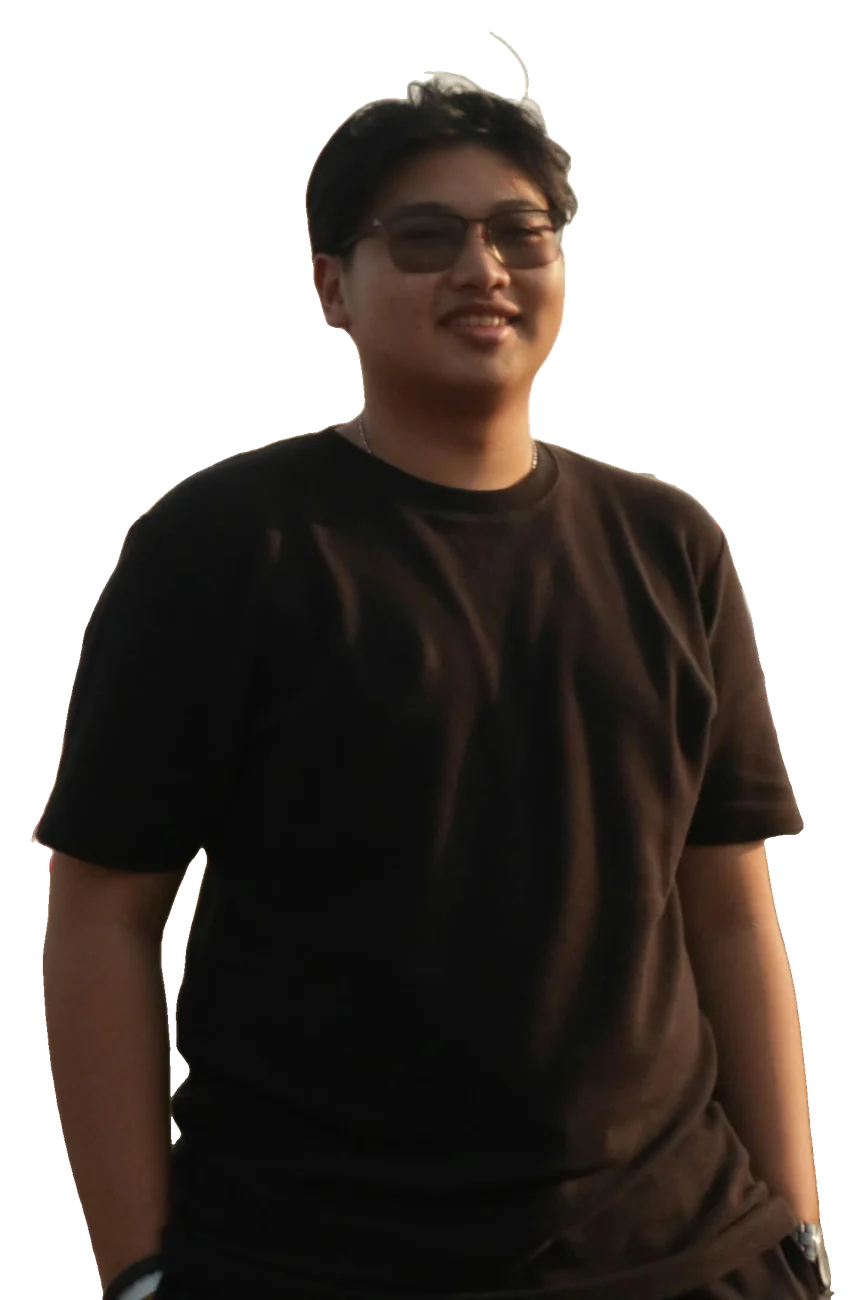
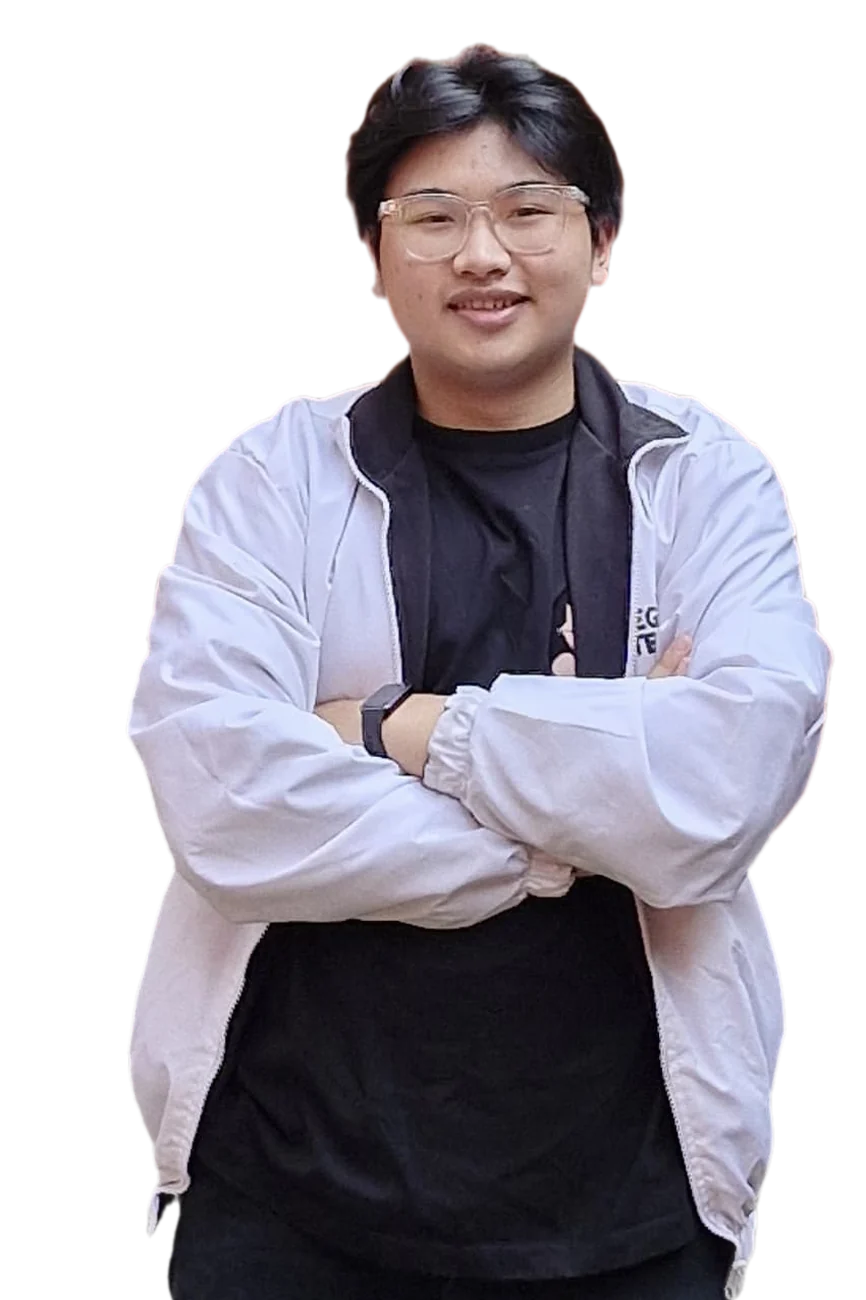
Use the torii photo for the portrait; plain hyphens instead of em dashes
The portrait cutout now comes from the Fushimi Inari photo (relaxed,
arms crossed), cropped to the same 866x1300 frame so the hero, About
frame and shatter transition need no changes. Every visible em dash in
the page and the chat widget is now a plain hyphen, and the assistant
is told to avoid em dashes too.

diff --git a/index.html b/index.html
@@ -4,8 +4,8 @@
 <head>
   <meta charset="UTF-8" />
   <meta name="viewport" content="width=device-width, initial-scale=1.0" />
-  <meta name="description" content="Elroy Matthew Wiyanto — Full-Stack & Web Developer Portfolio" />
-  <title>Elroy Matthew Wiyanto — Developer</title>
+  <meta name="description" content="Elroy Matthew Wiyanto - Full-Stack & Web Developer Portfolio" />
+  <title>Elroy Matthew Wiyanto - Developer</title>
   <link rel="preconnect" href="https://fonts.googleapis.com" />
   <link rel="preconnect" href="https://fonts.gstatic.com" crossorigin />
   <link
@@ -21,7 +21,7 @@
   <link rel="canonical" href="https://elroy-matthew.vercel.app/" />
   <meta name="theme-color" content="#e8922a" />
   <meta property="og:type" content="website" />
-  <meta property="og:title" content="Elroy Matthew Wiyanto — Full-Stack &amp; Web Developer" />
+  <meta property="og:title" content="Elroy Matthew Wiyanto - Full-Stack &amp; Web Developer" />
   <meta property="og:description"
     content="Full-stack developer building performant web apps with React, Next.js, Golang and PostgreSQL." />
   <meta property="og:url" content="https://elroy-matthew.vercel.app/" />
@@ -33,7 +33,7 @@
   <meta name="twitter:card" content="summary_large_image" />
   <meta name="twitter:image" content="https://elroy-matthew.vercel.app/assets/img/og-image.png" />
   <link rel="preload" as="image" href="assets/img/portrait-cutout.webp" fetchpriority="high" />
-  <link rel="stylesheet" href="assets/css/styles.css?v=66" />
+  <link rel="stylesheet" href="assets/css/styles.css?v=67" />
 </head>
 
 <body class="pre-lock">
@@ -131,12 +131,12 @@
              .portrait-fly (main.js) yang pecah lalu menyatu di bingkai About. -->
         <figure class="hero-portrait">
           <img class="hero-cutout" src="assets/img/portrait-cutout.webp" width="866" height="1300"
-            alt="Elroy Matthew Wiyanto, smiling, in a black t-shirt" fetchpriority="high" decoding="async" />
+            alt="Elroy Matthew Wiyanto, smiling with arms crossed, in a white jacket" fetchpriority="high" decoding="async" />
         </figure>
 
         <div class="hero-left">
           <p class="hero-role">Full-Stack Developer &amp; <span class="hl">Web Developer</span></p>
-          <p class="hero-desc">Building performant, scalable full-stack web applications &mdash; from database
+          <p class="hero-desc">Building performant, scalable full-stack web applications - from database
             architecture to polished user interfaces.</p>
           <div class="hero-ctas">
             <a href="#projects" class="btn btn-primary">View Projects ↓</a>
@@ -175,11 +175,11 @@
             <strong>full-stack web applications</strong> and <strong>scalable backend services</strong>.
           </p>
           <p>
-            Currently working at <strong>Egafood Indonesia</strong> as a Full-Stack Developer Intern —
+            Currently working at <strong>Egafood Indonesia</strong> as a Full-Stack Developer Intern -
             developing a company-wide ERP system from the ground up for digital transformation.
           </p>
           <p>
-            I'm comfortable owning a feature <strong>end-to-end</strong> — from schema design to deployment —
+            I'm comfortable owning a feature <strong>end-to-end</strong> - from schema design to deployment -
             and have hands-on experience in frontend, backend, API design, and cloud architecture.
           </p>
         </div>
@@ -395,7 +395,7 @@
 
         <div class="tl-item reveal">
           <div class="tl-meta">
-            <span class="tl-date">Aug 2026 — Present</span>
+            <span class="tl-date">Aug 2026 - Present</span>
             <span class="tl-type">Internship</span>
           </div>
           <div class="tl-role">Full-Stack Developer Intern</div>
@@ -411,7 +411,7 @@
 
         <div class="tl-item reveal">
           <div class="tl-meta">
-            <span class="tl-date">Apr 2026 — Jul 2026</span>
+            <span class="tl-date">Apr 2026 - Jul 2026</span>
             <span class="tl-type">Apprenticeship</span>
           </div>
           <div class="tl-role">Web Development Intern</div>
@@ -425,7 +425,7 @@
 
         <div class="tl-item reveal">
           <div class="tl-meta">
-            <span class="tl-date">Feb 2026 — Apr 2026</span>
+            <span class="tl-date">Feb 2026 - Apr 2026</span>
             <span class="tl-type">Apprenticeship</span>
           </div>
           <div class="tl-role">IT Help Desk</div>
@@ -498,7 +498,7 @@
           </div>
           <div class="project-body">
             <div class="project-icon">✈</div>
-            <div class="project-name">TripVerse &mdash; Online Travel Agent</div>
+            <div class="project-name">TripVerse - Online Travel Agent</div>
             <div class="project-desc">Full-featured online travel agent platform with multi-role admin dashboard,
               booking management, user authentication with forgot-password flow, activity logging, and multi-language
               support (EN/ID).</div>
@@ -567,7 +567,7 @@
           </div>
           <div class="project-body">
             <div class="project-icon">🖥</div>
-            <div class="project-name">Customer Portal &mdash; Comtronics Systems</div>
+            <div class="project-name">Customer Portal - Comtronics Systems</div>
             <div class="project-desc">Customer-facing portal developed during internship at PT Comtronics Systems.
               Features ticket management, support request tracking, and IT helpdesk integration for streamlined customer
               service workflows.</div>
@@ -600,10 +600,10 @@
           </div>
           <div class="project-body">
             <div class="project-icon">🛰</div>
-            <div class="project-name">NEXA &mdash; Smart City Command Center</div>
+            <div class="project-name">NEXA - Smart City Command Center</div>
             <div class="project-desc">Smart city monitoring dashboard for real-time urban operations. Handles emergency
               reports, live CCTV findings, IoT device health (smart street lighting, sensors, controllers), and
-              environmental alerts &mdash; all plotted on an interactive map with trend analytics.</div>
+              environmental alerts - all plotted on an interactive map with trend analytics.</div>
             <div class="project-stack"><span class="stack-tag">React 19</span><span
                 class="stack-tag">TypeScript</span><span class="stack-tag">Vite</span><span class="stack-tag">Tailwind
                 CSS</span><span class="stack-tag">Google Maps</span><span class="stack-tag">Chart.js</span></div>
@@ -634,9 +634,9 @@
           </div>
           <div class="project-body">
             <div class="project-icon">☕</div>
-            <div class="project-name">Royale POS &mdash; Restaurant Point of Sale</div>
+            <div class="project-name">Royale POS - Restaurant Point of Sale</div>
             <div class="project-desc">Point of sale system for a coffee shop &amp; kitchen, split across three roles
-              &mdash; cashier, warehouse, and owner. Fast checkout with keyboard shortcuts, thermal receipts and A4
+              - cashier, warehouse, and owner. Fast checkout with keyboard shortcuts, thermal receipts and A4
               invoices, stock that moves with every sale and void, monthly targets, and owner analytics.</div>
             <div class="project-stack"><span class="stack-tag">React</span><span class="stack-tag">Vite</span><span
                 class="stack-tag">Tailwind CSS</span><span class="stack-tag">Recharts</span><span
@@ -668,7 +668,7 @@
           </div>
           <div class="project-body">
             <div class="project-icon">🌙</div>
-            <div class="project-name">UltraSleep &mdash; Product Website</div>
+            <div class="project-name">UltraSleep - Product Website</div>
             <div class="project-desc">Official website for a BPOM- and Halal-registered sleep supplement, designed,
               built, and deployed end to end. A custom WordPress theme built with Tailwind CSS, bilingual (ID/EN),
               covering product benefits, research, FAQ, reseller sign-up, and an in-page cart.</div>
@@ -721,8 +721,8 @@
               onerror="this.parentNode.textContent='🎓'" /></div>
           <div>
             <div class="edu-title">B.Sc. Information Systems</div>
-            <div class="edu-sub">Maranatha Christian University — Bandung, Indonesia</div>
-            <div class="edu-date">Aug 2023 — Jun 2027 (Expected)</div>
+            <div class="edu-sub">Maranatha Christian University - Bandung, Indonesia</div>
+            <div class="edu-date">Aug 2023 - Jun 2027 (Expected)</div>
             <div class="edu-detail">
               <ul class="edu-wins">
                 <li class="win win-hi"><b>4.00</b>&nbsp;/ 4.00 GPA</li>
@@ -740,9 +740,9 @@
           <div class="edu-icon"><img class="edu-logo" src="assets/img/terang-bangsa.webp" alt="Logo SMAK Terang Bangsa"
               loading="lazy" decoding="async" onerror="this.parentNode.textContent='🏫'" /></div>
           <div>
-            <div class="edu-title">High School Diploma — Natural Science</div>
-            <div class="edu-sub">SMAK Terang Bangsa — Cirebon, Indonesia</div>
-            <div class="edu-date">Jul 2020 — Apr 2023</div>
+            <div class="edu-title">High School Diploma - Natural Science</div>
+            <div class="edu-sub">SMAK Terang Bangsa - Cirebon, Indonesia</div>
+            <div class="edu-date">Jul 2020 - Apr 2023</div>
           </div>
         </div>
       </div>
@@ -913,7 +913,7 @@
               <div>
                 <div class="org-role">Vice President</div>
               </div>
-              <div class="org-period">Feb 2025 — Feb 2026</div>
+              <div class="org-period">Feb 2025 - Feb 2026</div>
             </div>
             <div class="org-name">HMSI Maranatha 25/26</div>
             <div class="org-desc">Led &amp; managed team activities to achieve project targets. Maintained
@@ -932,7 +932,7 @@
               <div>
                 <div class="org-role">Academic Division</div>
               </div>
-              <div class="org-period">Feb 2024 — Feb 2025</div>
+              <div class="org-period">Feb 2024 - Feb 2025</div>
             </div>
             <div class="org-name">HMSI Maranatha 24/25</div>
             <div class="org-desc">Organized academic events including workshops, seminars, and study groups to support
@@ -1100,7 +1100,7 @@
     </a>
   </div>
 
-  <script src="assets/js/main.js?v=66"></script>
+  <script src="assets/js/main.js?v=67"></script>
 </body>
 
 </html>

diff --git a/assets/js/main.js b/assets/js/main.js
@@ -545,7 +545,7 @@ document.querySelectorAll('.project-card').forEach(card => {
     if (!greeted) {
       greeted = true;
       bubble('msg-bot',
-        "Hai! Saya asisten AI-nya Elroy. Tanya apa saja soal pengalaman, project, atau keahliannya — boleh pakai bahasa Indonesia atau Inggris.");
+        "Hai! Saya asisten AI-nya Elroy. Tanya apa saja soal pengalaman, project, atau keahliannya - boleh pakai bahasa Indonesia atau Inggris.");
     }
     setTimeout(() => input.focus(), 280);
   }
@@ -592,23 +592,23 @@ document.querySelectorAll('.project-card').forEach(card => {
   const FAST = [
     {
       re: /^(hai|halo|hallo|hi|hello|hey|pagi|siang|sore|malam|selamat (pagi|siang|sore|malam))\b/i,
-      id: 'Halo! Silakan tanya apa saja tentang Elroy — pengalaman kerja, project, keahlian, atau ketersediaannya.',
-      en: 'Hi! Ask me anything about Elroy — his work experience, projects, skills, or availability.',
+      id: 'Halo! Silakan tanya apa saja tentang Elroy - pengalaman kerja, project, keahlian, atau ketersediaannya.',
+      en: 'Hi! Ask me anything about Elroy - his work experience, projects, skills, or availability.',
     },
     {
       re: /(siapa kamu|kamu siapa|kamu ini apa|kamu ai|kamu bot|who are you|what are you|are you (an? )?(ai|bot|gemini|chatgpt))/i,
-      id: 'Saya asisten AI di portfolio Elroy Matthew Wiyanto, ditenagai Google Gemini. Saya menjawab berdasarkan CV dan profil Elroy — jadi kalau ada yang tidak saya ketahui, saya akan bilang tidak tahu, bukan mengarang.',
-      en: "I'm the AI assistant on Elroy Matthew Wiyanto's portfolio, powered by Google Gemini. I answer from Elroy's CV and profile — so if I don't know something, I'll say so rather than make it up.",
+      id: 'Saya asisten AI di portfolio Elroy Matthew Wiyanto, ditenagai Google Gemini. Saya menjawab berdasarkan CV dan profil Elroy - jadi kalau ada yang tidak saya ketahui, saya akan bilang tidak tahu, bukan mengarang.',
+      en: "I'm the AI assistant on Elroy Matthew Wiyanto's portfolio, powered by Google Gemini. I answer from Elroy's CV and profile - so if I don't know something, I'll say so rather than make it up.",
     },
     {
       re: /(kontak|hubungi|contact|reach (him|out)|email\b|e-mail|whatsapp|wa\b|nomor|phone)/i,
-      id: 'Elroy bisa dihubungi lewat:\n• Email — elroy.matthew10@gmail.com\n• WhatsApp — +62 878-0677-6235 (ada tombol hijaunya di pojok kanan bawah)\n• LinkedIn — elroy-matthew-wiyanto\n• GitHub — @Royyy26',
-      en: 'You can reach Elroy at:\n• Email — elroy.matthew10@gmail.com\n• WhatsApp — +62 878-0677-6235 (green button, bottom right)\n• LinkedIn — elroy-matthew-wiyanto\n• GitHub — @Royyy26',
+      id: 'Elroy bisa dihubungi lewat:\n• Email - elroy.matthew10@gmail.com\n• WhatsApp - +62 878-0677-6235 (ada tombol hijaunya di pojok kanan bawah)\n• LinkedIn - elroy-matthew-wiyanto\n• GitHub - @Royyy26',
+      en: 'You can reach Elroy at:\n• Email - elroy.matthew10@gmail.com\n• WhatsApp - +62 878-0677-6235 (green button, bottom right)\n• LinkedIn - elroy-matthew-wiyanto\n• GitHub - @Royyy26',
     },
     {
       re: /(open to work|lagi cari kerja|sedang mencari|available|tersedia|bisa direkrut|hiring|lowongan|masih kuliah)/i,
       id: 'Ya, Elroy terbuka untuk peluang internship, project freelance, maupun posisi full-time. Ia mencari posisi di Bandung, on-site atau hybrid. Saat ini masih berkuliah (perkiraan lulus Juni 2027) sambil magang, jadi soal jadwal sebaiknya dibicarakan langsung dengannya.',
-      en: "Yes — Elroy is open to internships, freelance projects, and full-time roles. He's looking in Bandung, on-site or hybrid. He's still studying (expected to graduate June 2027) alongside his internship, so timing is best discussed with him directly.",
+      en: "Yes - Elroy is open to internships, freelance projects, and full-time roles. He's looking in Bandung, on-site or hybrid. He's still studying (expected to graduate June 2027) alongside his internship, so timing is best discussed with him directly.",
     },
     {
       re: /^(.{0,40})(cv|resume|curriculum)\b/i,
@@ -617,8 +617,8 @@ document.querySelectorAll('.project-card').forEach(card => {
     },
     {
       re: /(github|repo|repositor|source code|kode sumber)/i,
-      id: 'Profil GitHub Elroy ada di github.com/Royyy26 — termasuk NEXA dan OdeBistro. Beberapa project, seperti ERP Egafood, Royale POS, dan UltraSleep, tidak punya repositori publik; kartu project-nya menautkan demo live.',
-      en: "Elroy's GitHub is github.com/Royyy26 — NEXA and OdeBistro are there, among others. Some projects, like the Egafood ERP, Royale POS, and UltraSleep, have no public repository; their project cards link to live demos instead.",
+      id: 'Profil GitHub Elroy ada di github.com/Royyy26 - termasuk NEXA dan OdeBistro. Beberapa project, seperti ERP Egafood, Royale POS, dan UltraSleep, tidak punya repositori publik; kartu project-nya menautkan demo live.',
+      en: "Elroy's GitHub is github.com/Royyy26 - NEXA and OdeBistro are there, among others. Some projects, like the Egafood ERP, Royale POS, and UltraSleep, have no public repository; their project cards link to live demos instead.",
     },
     {
       re: /(makasih|terima kasih|thanks|thank you|thx|ok(e|ay)?$|sip$|mantap$)/i,

diff --git a/lib/profile.js b/lib/profile.js
@@ -255,4 +255,5 @@ Cara menjawab:
 Format jawaban: teks biasa saja. Jangan pakai markdown sama sekali — tidak ada
 tanda bintang untuk menebalkan, tidak ada heading, tidak ada tanda pagar. Jawaban
 kamu ditampilkan apa adanya, jadi tanda-tanda itu akan terlihat sebagai karakter
-aneh oleh pengunjung. Kalau perlu daftar, pakai tanda hubung di awal baris.`;
+aneh oleh pengunjung. Kalau perlu daftar, pakai tanda hubung di awal baris.
+Jangan pakai tanda pisah panjang (—); kalau perlu, pakai tanda hubung biasa (-).`;
